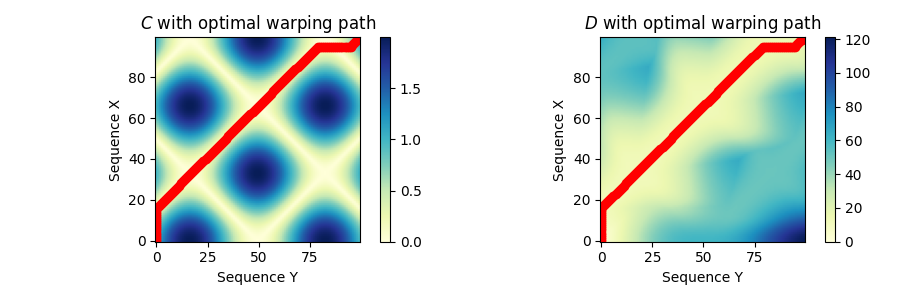
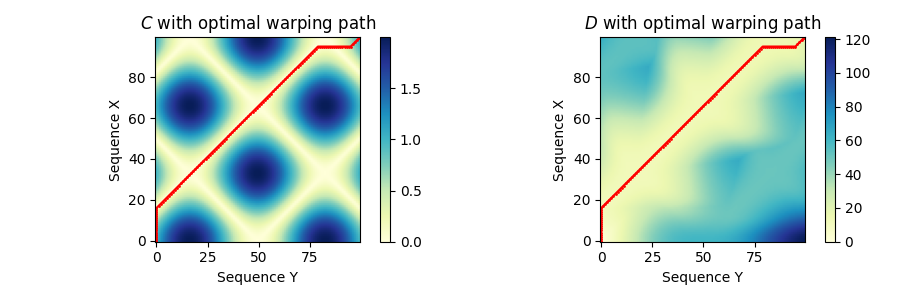
fix images

Changed region(s): [[0.6533, 0.12, 0.9022, 0.81], [0.1556, 0.12, 0.4044, 0.81]]

diff --git a/stacky-source/similarity/timeseries/vanilla_dtw.py b/stacky-source/similarity/timeseries/vanilla_dtw.py
@@ -85,7 +85,7 @@ if __name__=='__main__':
     fig = plt.figure(figsize=(9, 3))
     plt.subplot(1, 2, 1)
     plt.imshow(C, cmap="YlGnBu", origin='lower', aspect='equal')
-    plt.plot(P[:, 1], P[:, 0], marker='o', color='r')
+    plt.plot(P[:, 1], P[:, 0], marker='o', color='r', markersize=1)
     plt.clim([0, np.max(C)])
     plt.colorbar()
     plt.title('$C$ with optimal warping path')
@@ -96,7 +96,7 @@ if __name__=='__main__':
     # Plot the accumulated cost matrix and optimal warping path
     plt.subplot(1, 2, 2)
     plt.imshow(D, cmap="YlGnBu", origin='lower', aspect='equal')
-    plt.plot(P[:, 1], P[:, 0], marker='o', color='r')
+    plt.plot(P[:, 1], P[:, 0], marker='o', color='r', markersize=1)
     plt.clim([0, np.max(D)])
     plt.colorbar()
     plt.title('$D$ with optimal warping path')
@@ -109,12 +109,13 @@ if __name__=='__main__':
     # Plot the two time series and the optimal warping path
     fig, ax = plt.subplots(figsize=(10, 5))
     fig.patch.set_visible(False)
-    ax.axis('off')
+    # add grid
+    ax.grid(True)
     for [map_x, map_y] in P:
-        ax.plot([map_x, map_y], [X[map_x], Y[map_y]], '--k', linewidth=4)
-    ax.plot(X, '-ro', label='x', linewidth=4, markersize=20, markerfacecolor='salmon', markeredgecolor='salmon')
-    ax.plot(Y, '-bo', label='y', linewidth=4, markersize=20, markerfacecolor='skyblue', markeredgecolor='skyblue')
-    ax.set_title("DTW Distance", fontsize=28, fontweight="bold")
+        ax.plot([map_x, map_y], [X[map_x], Y[map_y]], '--k', linewidth=2, color='gray')
+    ax.plot(X, '-ro', label='x', linewidth=4, markersize=8, markerfacecolor='black', markeredgecolor='salmon', alpha=0.5)
+    ax.plot(Y, '-bo', label='y', linewidth=4, markersize=8, markerfacecolor='black', markeredgecolor='skyblue', alpha=0.5)
+    ax.set_title("DTW Distance", fontsize=10, fontweight="bold")
     ax.legend(fontsize=20)
     plt.tight_layout()
     fig.savefig('img/dtw_distance.png')
